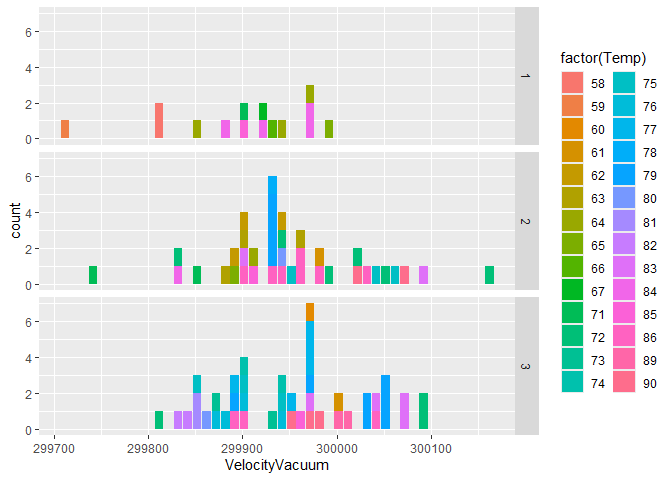
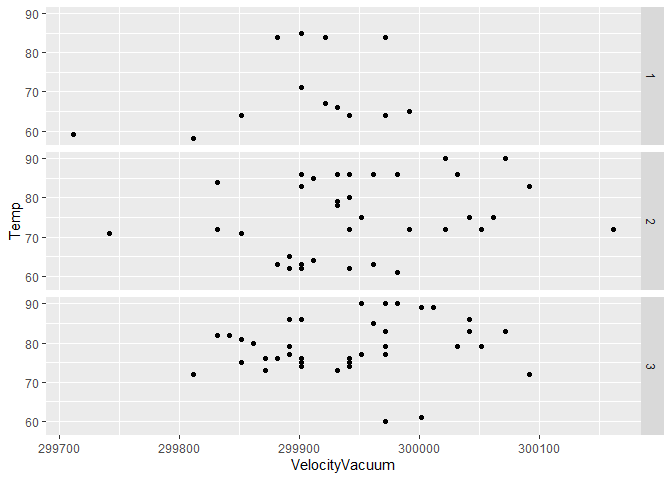
revised challenge 02

diff --git a/challenges/c02-michelson-assignment.md b/challenges/c02-michelson-assignment.md
@@ -157,22 +157,23 @@ df_q1
 | 2            |  39 |     299858.5 |
 | 1            |  15 |     299808.0 |
 
-**Observations**: - Write your observations here! - 3 is the most common
-distinctness, while 1 is the least common. - The mean velocities when
-distinctness is 2 or 3 are close to each other, being 3.2 km/s apart.
-However, the mean velocity when distinctness is 1 is about 50 km/s apart
-from the other mean velocities. - The highest distinctness has the
-highest number of occurrences and the highest mean velocity, while the
-lowest distinctness has the lowest of occurrences and the lowest mean
-velocity. - The mean velocities in my table are close to, but not
-exactly the same as, the values from Michelson’s table.
+**Observations**: 
+- Write your observations here! 
+- 3 is the most common distinctness, while 1 is the least common. 
+- The mean velocities when distinctness is 2 or 3 are close to each other, 
+being 3.2 km/s apart. However, the mean velocity when distinctness is 1 is about 
+50 km/s apart from the other mean velocities. 
+- The highest distinctness has the highest number of occurrences and the highest 
+mean velocity, while the lowest distinctness has the lowest of occurrences and 
+the lowest mean velocity. 
+- The mean velocities in my table are close to, but not exactly the same as, the 
+values from Michelson’s table.
 
 - Why might your table differ from Michelson’s?
-  - My table might differ from Michelson’s because of the way that
-    velocity was measured. He estimated the speed of light in a vacuum,
-    so if the original measurements were not taken in a vacuum, there
-    would be differences in the velocity values that he would want to
-    take account for.
+  - My table might differ from Michelson’s because he, of course, had
+    much less advanced technology and may have made a few small errors
+    in his calculations of the mean velocities that my computer did not
+    recreate.
 
 The `Velocity` values in the dataset are the speed of light *in air*;
 Michelson introduced a couple of adjustments to estimate the speed of
@@ -243,9 +244,10 @@ LIGHTSPEED_PM                             ## Plus/minus bounds of Michelson's es
 
     ## [1] 51
 
-**Observations**: - Is Michelson’s estimate of the error (his
-uncertainty) greater or less than the true error? - Michelson’s estimate
-of the error is less than the true error.
+**Observations**: 
+- Is Michelson’s estimate of the error (his uncertainty) greater or less than 
+the true error? 
+  - Michelson’s estimate of the error is less than the true error.
 
 - Make a quantitative comparison between Michelson’s uncertainty and his
   error.
@@ -331,30 +333,34 @@ df_q2 %>%
 
 ![](c02-michelson-assignment_files/figure-gfm/q4-cf-real-simulated-1.png)<!-- -->
 
-**Observations**: Similarities - Both datasets have peaks and valleys in
-the mean around the same dates. - There are measurements that are
-outside the upper and lower control limits in both the real and
-simulated data.
+**Observations**: 
+Similarities 
+- Both datasets have peaks and valleys in the mean around the same dates. 
+- There are measurements that are outside the upper and lower control limits in 
+both the real and simulated data.
 
-Differences - The gray line for the real data has more areas outside of
-the control limits than the gray line for the simulated data. - The gray
-line for the real data has areas outside of both the upper and lower
-control limits, while the gray line for the simulated data only has
-areas outside of the upper control limit. - The peaks in the mean are
-higher in the real data before June 23, and higher in the simulated data
-after June 23. - The mean in the real data starts and ends very close to
-the center line, while the mean in the simulated data starts below the
-center line and ends slightly above it. - The highest measurement in the
-real data is greater than in the simulated data. Similarly, the lowest
-measurement in the real data is lesser than in the simulated data.
+Differences 
+- The gray line for the real data has more areas outside of the control limits 
+than the gray line for the simulated data. 
+- The gray line for the real data has areas outside of both the upper and lower
+control limits, while the gray line for the simulated data only has areas 
+outside of the upper control limit. 
+- The peaks in the mean are higher in the real data before June 23, and higher 
+in the simulated data after June 23. 
+- The mean in the real data starts and ends very close to the center line, while 
+the mean in the simulated data starts below the center line and ends slightly 
+above it. 
+- The highest measurement in the real data is greater than in the simulated 
+data. Similarly, the lowest measurement in the real data is lesser than in the 
+simulated data.
 
 ### **q5** You have access to a few other variables. Construct a **at least three** visualizations of `VelocityVacuum` against these other factors. Are there other patterns in the data that might help explain the difference between Michelson’s estimate and `LIGHTSPEED_VACUUM`?
 
 ``` r
 ## Creates visualization comparing velocity in a vacuum, temperature, and distinctness 
 df_q2 %>%
-  ggplot(aes(x = VelocityVacuum, fill = factor(Temp))) +
-  geom_bar() +
+  ggplot(aes(x = VelocityVacuum, y = Temp)) +
+  geom_point() +
   facet_grid(Distinctness ~ .)
 ```
 
@@ -363,18 +369,71 @@ df_q2 %>%
 ``` r
 ## Creates visualization comparing velocity in a vacuum and temperature
 df_q2 %>% 
-  ggplot(aes(x = VelocityVacuum, y = Temp)) + 
-  geom_point()
+  group_by(VelocityVacuum) %>%
+  mutate(maxTemp = max(Temp)) %>%
+  ggplot(aes(x = VelocityVacuum, y = Temp)) +
+  geom_point() +
+  geom_line(aes(x = VelocityVacuum, y = maxTemp, color = "red")) + 
+  geom_vline(aes(xintercept = LIGHTSPEED_VACUUM, color = "blue")) + 
+  geom_label(
+    aes(
+    x = LIGHTSPEED_VACUUM - 45, 
+    y = 57, 
+    label = "Speed of Light", 
+    color = "blue")
+    ) +
+  geom_vline(aes(xintercept = LIGHTSPEED_MICHELSON, color = "green")) +
+  geom_label(
+    aes(
+      x = LIGHTSPEED_MICHELSON - 60, 
+      y = 57, 
+      label = "Michelson's Estimate", 
+      color = "green")
+    ) +
+  theme(legend.position = "none")
 ```
+
+    ## Warning in geom_label(aes(x = LIGHTSPEED_VACUUM - 45, y = 57, label = "Speed of Light", : All aesthetics have length 1, but the data has 100 rows.
+    ## ℹ Please consider using `annotate()` or provide this layer with data containing
+    ##   a single row.
+
+    ## Warning in geom_label(aes(x = LIGHTSPEED_MICHELSON - 60, y = 57, label = "Michelson's Estimate", : All aesthetics have length 1, but the data has 100 rows.
+    ## ℹ Please consider using `annotate()` or provide this layer with data containing
+    ##   a single row.
 
 ![](c02-michelson-assignment_files/figure-gfm/unnamed-chunk-3-1.png)<!-- -->
 
 ``` r
 ## Creates visualization comparing velocity in a vacuum and distinctness
 df_q2 %>% 
-  ggplot(aes(x = VelocityVacuum, fill = factor(Distinctness))) + 
-  geom_bar() 
+  ggplot(aes(x = Distinctness, y = VelocityVacuum)) +
+  geom_boxplot() +
+  geom_hline(aes(yintercept = LIGHTSPEED_VACUUM, color = "red")) +
+  geom_label(
+    aes(
+      x = 0.75, 
+      y = LIGHTSPEED_VACUUM - 25, 
+      color = "red", 
+      label = "Speed of Light")
+    ) +
+  geom_hline(aes(yintercept = LIGHTSPEED_MICHELSON, color = "blue")) + 
+  geom_label(
+    aes(
+      x = 0.8, 
+      y = LIGHTSPEED_MICHELSON + 25, 
+      color = "blue", 
+      label = "Michelson's Estimate")
+    ) +
+  theme(legend.position = "none")
 ```
+
+    ## Warning in geom_label(aes(x = 0.75, y = LIGHTSPEED_VACUUM - 25, color = "red", : All aesthetics have length 1, but the data has 100 rows.
+    ## ℹ Please consider using `annotate()` or provide this layer with data containing
+    ##   a single row.
+
+    ## Warning in geom_label(aes(x = 0.8, y = LIGHTSPEED_MICHELSON + 25, color = "blue", : All aesthetics have length 1, but the data has 100 rows.
+    ## ℹ Please consider using `annotate()` or provide this layer with data containing
+    ##   a single row.
 
 ![](c02-michelson-assignment_files/figure-gfm/unnamed-chunk-4-1.png)<!-- -->
 
@@ -389,8 +448,9 @@ df_q2 %>%
 
 **Observations**:
 
-- Maximum temperature generally increases as observed velocity
-  increases.
+- Temperature only reaches 90 degrees when distinctness is 2 or 3.
+- The lowest temperature recorded occurred when the distinctness was 1.
+  The highest temperature recorded occurred when the distinctness was 2.
 - Velocity values become more spread out when the temperature is over 70
   degrees.
 - When the observed velocity was over 300,000 km/s, the temperature was
@@ -407,17 +467,22 @@ df_q2 %>%
   of the experiment.
 - The three most “extreme” velocity cases occurred when the distinctness
   was 1 or 2.
+- The median velocity was lowest when the distinctness was 1 and highest
+  when the distinctness was 3.
+- The median velocity was closest to Michelson’s estimate when the
+  distinctness was 2.
+- The median velocity was closest to the true value of the speed of
+  light when the distinctness was 1.
 
-High temperatures could be a reason for Michelson’s error because they
-seem to lead to more inconsistent readings. There wasn’t an extremely
-clear relationship between temperature and observed velocity, but when
-temperatures were higher than 70 degrees, the velocity values became
-more spread out, The maximum values also increased, becoming further
-from the true speed of light. On the other hand, when image distinctness
-was higher, the velocities were not notably closer to the actual value
-of the speed of light. Each distinctness also had a wide range of
-velocities measured, so it is hard to definitively determine their
-effect on Michelson’s estimate.
+There is another pattern in the data that could explain the difference
+between Michelson’s estimate and the true speed of light. The
+distinctness of the images has a noticeable effect on the measured
+velocity values. Interestingly, even though 1 is considered “poor” and 3
+is considered “good,” as the distinctness goes from 1 to 3, the median
+velocity increases and gets farther from the true speed of light. Since
+the majority of Michelson’s measurements were taken at a distinctness of
+2 or 3, his data was skewed towards the higher side and not as accurate
+as it could have been.
 
 ## Bibliography
 
